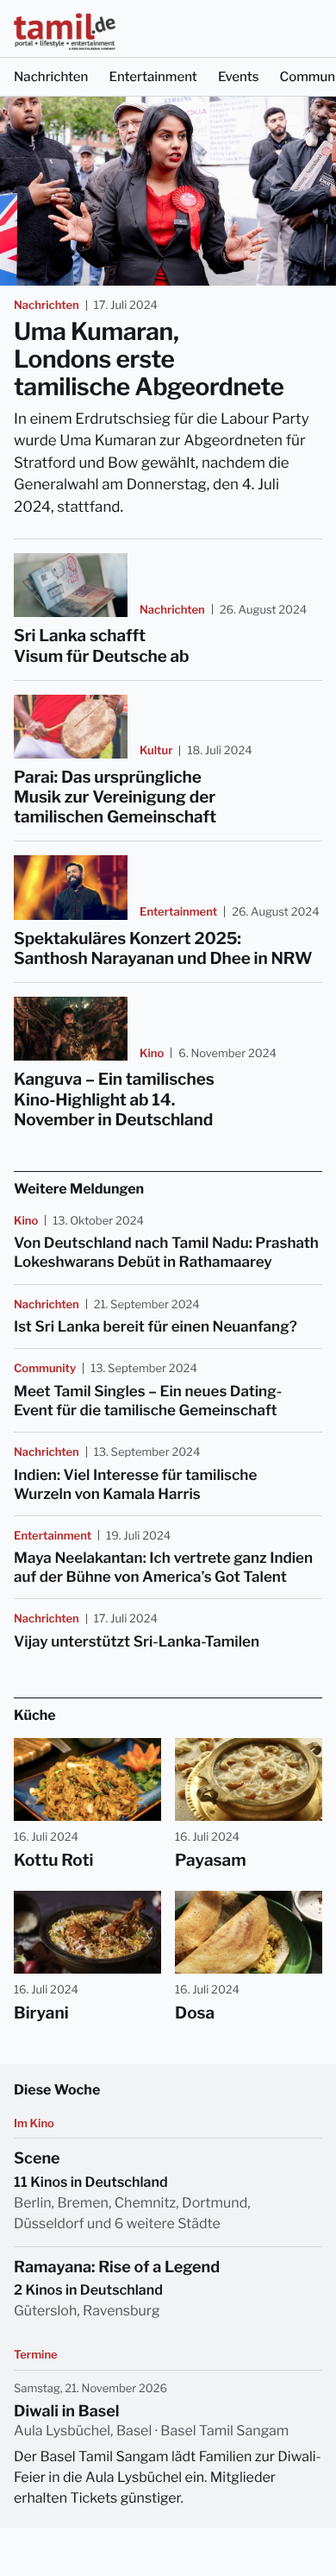
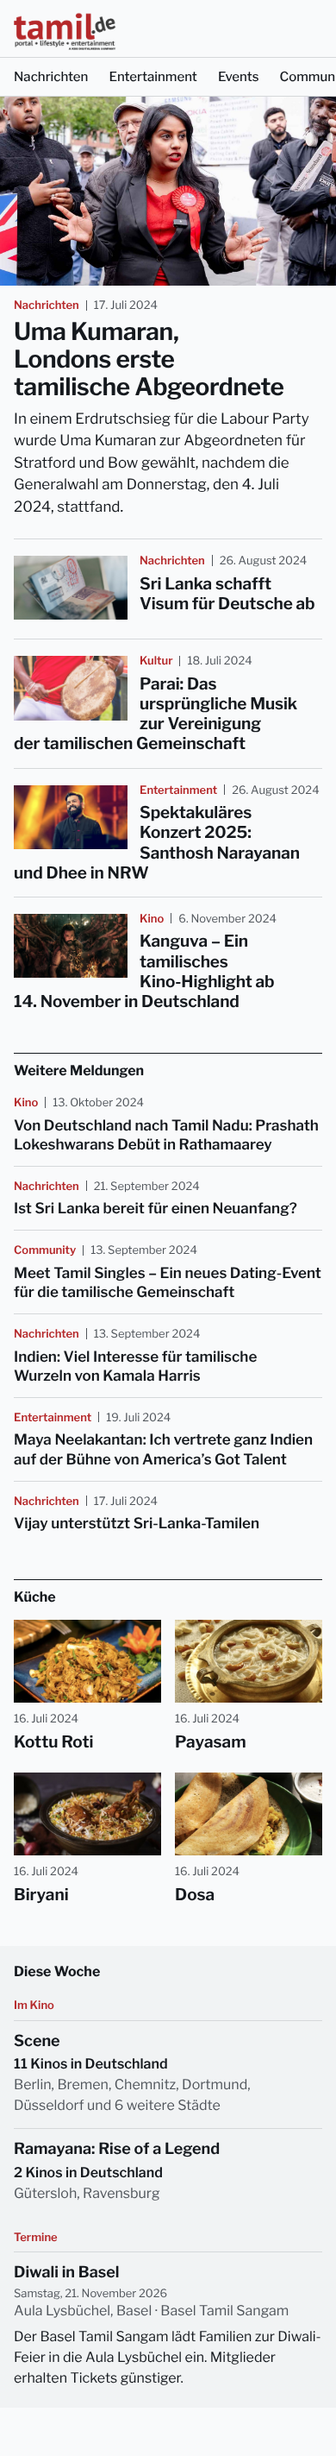
chore(design): Zwischenstand der Überarbeitung von klar sichern
Claude-Session: https://claude.ai/code/session_01VBg2WFSs9tPNRidQXUcJan

diff --git a/design/richtungen/klar/klar.css b/design/richtungen/klar/klar.css
@@ -59,6 +59,8 @@ a:focus-visible {
   outline-offset: 3px;
 }
 
+.zusammen { white-space: nowrap; }
+
 .nur-vorlesen {
   position: absolute;
   width: 1px; height: 1px;
@@ -175,18 +177,16 @@ a:focus-visible {
 
 .stueck { border-top: 1px solid var(--linie); }
 .stueck .anr {
-  display: grid;
-  grid-template-columns: 132px minmax(0, 1fr);
-  column-gap: 14px;
-  align-items: start;
+  display: flow-root;
   padding: 16px 0;
 }
-/* Handy: Bild links, Dachzeile an seiner Unterkante, Schlagzeile darunter über die volle Breite (höchstens drei Zeilen). */
-.stueck__text { display: contents; }
-.stueck .bild { grid-column: 1; grid-row: 1; }
-.stueck .meta { grid-column: 2; grid-row: 1; align-self: end; margin-bottom: 0; }
-.stueck .titel { grid-column: 1 / -1; margin-top: 10px; }
-.stueck .vorspann { grid-column: 1 / -1; }
+/* Handy wie BBC: Bild links, Dachzeile und Schlagzeile rechts ab der Bildoberkante;
+   längerer Text läuft unter dem Bild weiter (höchstens vier Zeilen). */
+.stueck .bild {
+  float: left;
+  width: 132px;
+  margin: 3px 14px 6px 0;
+}
 .stueck .titel {
   font-size: 19px;
   line-height: 1.22;
@@ -232,10 +232,12 @@ a:focus-visible {
   font-weight: 600;
   color: var(--rot);
   padding: 16px 0 8px;
+  border-bottom: 1px solid var(--linie);
 }
-.eintrag { border-top: 1px solid var(--linie); }
+.eintrag + .eintrag { border-top: 1px solid var(--linie); }
 .eintrag .anr { padding: 12px 0 14px; }
 .eintrag .titel { font-size: 18px; line-height: 1.25; }
+.eintrag .meta { margin: 4px 0 0; }
 .eintrag__zahl {
   font-size: 16px;
   font-weight: 600;
@@ -251,10 +253,13 @@ a:focus-visible {
   .seite { max-width: 712px; margin: 0 auto; }
   .kopf__innen { max-width: 712px; margin: 0 auto; }
   .aufmacher .bild { width: 100%; margin-inline: 0; }
-  .stueck .anr { grid-template-columns: 200px minmax(0, 1fr); column-gap: 20px; }
-  .stueck__text { display: block; grid-column: 2; grid-row: 1; }
-  .stueck .meta { margin-bottom: 6px; }
-  .stueck .titel { margin-top: 0; }
+  .stueck .anr {
+    display: grid;
+    grid-template-columns: 200px minmax(0, 1fr);
+    column-gap: 20px;
+    align-items: start;
+  }
+  .stueck .bild { float: none; width: 100%; margin: 0; }
   .stueck .vorspann { display: block; }
   .kueche__liste { gap: 28px 24px; }
   .woche { margin-inline: 0; padding-inline: 24px; }
@@ -321,6 +326,7 @@ a:focus-visible {
     column-gap: 32px;
   }
   .woche__gruppe:first-child { grid-column: span 2; }
+  .woche__gruppe:first-child .eintrag + .eintrag { border-top: 0; }
   .woche__gruppe:first-child ul {
     display: grid;
     grid-template-columns: repeat(2, minmax(0, 1fr));

diff --git a/design/richtungen/klar/index.html b/design/richtungen/klar/index.html
@@ -89,7 +89,7 @@
                alt="Filmszene: ein Krieger mit Fellumhang und Halsketten vor Fackeln und erhobenen Hörnern, vorn ein Feuer.">
           <div class="stueck__text">
             <p class="meta"><span class="meta__rubrik">Kino</span><time datetime="2024-11-06">6. November 2024</time></p>
-            <h3 class="titel">Kanguva – Ein tamilisches Kino-Highlight ab 14. November in Deutschland</h3>
+            <h3 class="titel">Kanguva – Ein tamilisches <span class="zusammen">Kino-Highlight</span> ab 14.&nbsp;November in Deutschland</h3>
             <p class="vorspann">Ab dem 14. November ist der Film Kanguva in deutschen Kinos zu sehen und wird von tamilischen wie internationalen Filmfans mit Spannung erwartet.</p>
           </div>
         </a>
@@ -109,7 +109,7 @@
         </a></li>
         <li class="meldung"><a class="anr" href="#">
           <p class="meta"><span class="meta__rubrik">Community</span><time datetime="2024-09-13">13. September 2024</time></p>
-          <h3 class="titel">Meet Tamil Singles – Ein neues Dating-Event für die tamilische Gemeinschaft</h3>
+          <h3 class="titel">Meet Tamil Singles – Ein neues <span class="zusammen">Dating-Event</span> für die tamilische Gemeinschaft</h3>
         </a></li>
         <li class="meldung"><a class="anr" href="#">
           <p class="meta"><span class="meta__rubrik">Nachrichten</span><time datetime="2024-09-13">13. September 2024</time></p>
@@ -180,8 +180,8 @@
         <p class="woche__art" id="t-termine">Termine</p>
         <ul aria-labelledby="t-termine">
           <li class="eintrag"><a class="anr" href="#">
-            <p class="meta"><time datetime="2026-11-21">Samstag, 21. November 2026</time></p>
             <h3 class="titel">Diwali in Basel</h3>
+            <p class="meta"><time datetime="2026-11-21">Samstag, 21. November 2026</time></p>
             <p class="eintrag__orte">Aula Lysbüchel, Basel · Basel Tamil Sangam</p>
             <p class="eintrag__text">Der Basel Tamil Sangam lädt Familien zur Diwali-Feier in die Aula Lysbüchel ein. Mitglieder erhalten Tickets günstiger.</p>
           </a></li>

diff --git a/design/richtungen/klar/begruendung.md b/design/richtungen/klar/begruendung.md
@@ -14,3 +14,5 @@
 - Nebenstücke am Handy: Bild 132 × 74 px, Dachzeile an der Bildunterkante, Schlagzeile darunter über die volle Breite. Daneben gesetzt liefen die Titel bei 120–132 px auf 4–5 Zeilen; der Brief erlaubt höchstens 3.
 - „Diese Woche“: Etiketten „Im Kino“ und „Termine“ in der Form der Dachzeile (13 px, Rot), Datum des Termins als Meta-Zeile (13 px, leise); am Desktop drei gleich breite Spalten mit derselben Linie und Oberkante. Vorspann der Nebenstücke am Desktop höchstens 31 em (≤ 66 Zeichen).
 - Klein: Rubrik „Nachrichten“ im Artikel als aktiv markiert (`aria-current`, Rot, 600); in „Küche“ nur noch das Datum statt Rubrik und Datum.
+- Prüfung r2: Nebenstücke am Handy wie BBC: Bild 132 × 74 px links (umflossen), Dachzeile und Schlagzeile ab der Bildoberkante mit gemeinsamer Kante, längere Titel laufen unter dem Bild weiter (Brief jetzt: höchstens vier Zeilen; gemessen 2/4/4/4).
+- Zeilenfall „14.&nbsp;November“ mit geschütztem Leerzeichen, „Kino-Highlight“ und „Dating-Event“ ungetrennt (`nowrap`, weil Libre Franklin keinen geschützten Bindestrich U+2011 hat); im Dienstblock Termindatum unter dem Titel, Linie unter „Im Kino“ über beide Kinospalten.
